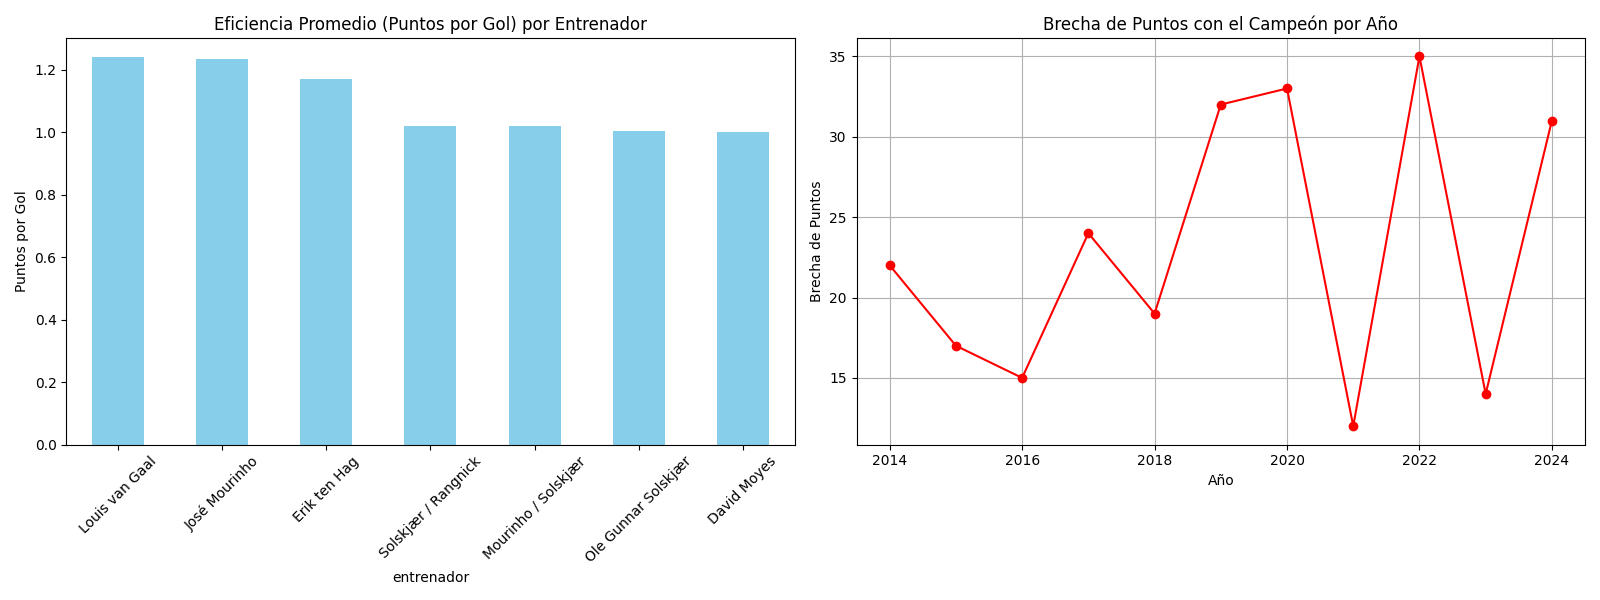
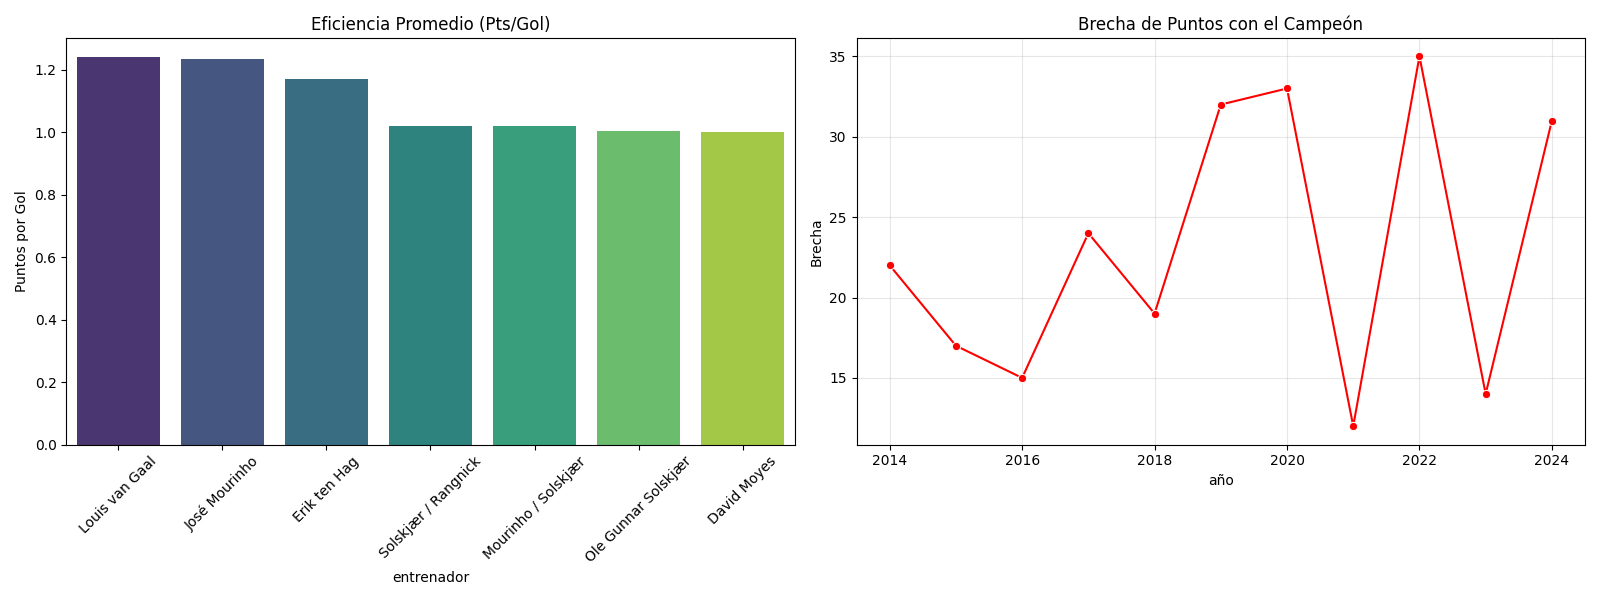
Refactor: Modularize code into src/manutd_analysis package

diff --git a/src/manutd_analysis/data.py b/src/manutd_analysis/data.py
@@ -1,0 +1,83 @@
+"""Módulo para carga y filtrado de datos."""
+import pandas as pd
+from pathlib import Path
+from typing import Optional
+
+ENTRENADORES = {
+    2014: 'David Moyes',
+    2015: 'Louis van Gaal', 2016: 'Louis van Gaal',
+    2017: 'José Mourinho', 2018: 'José Mourinho',
+    2019: 'Mourinho / Solskjær',
+    2020: 'Ole Gunnar Solskjær', 2021: 'Ole Gunnar Solskjær',
+    2022: 'Solskjær / Rangnick',
+    2023: 'Erik ten Hag', 2024: 'Erik ten Hag'
+}
+
+def cargar_y_filtrar_datos(ruta_archivo: str = 'pl-tables-1993-2024.csv') -> Optional[pd.DataFrame]:
+    """
+    Carga el CSV y filtra datos relevantes para el análisis del Man Utd desde 2014.
+    """
+    try:
+        # Intentar ruta absoluta o relativa al CWD
+        path = Path(ruta_archivo).resolve()
+        
+        if not path.exists():
+            # Intentar buscar en la raíz del proyecto si estamos corriendo desde dentro de src/tests
+            # Asumimos estructura standard: project_root/pl-tables...
+            # Subir hasta encontrar el archivo o fallar
+            candidate = Path.cwd() / ruta_archivo
+            if candidate.exists():
+                path = candidate
+            else:
+                 # Try finding via known structure relative to this file
+                 # data.py is in src/manutd_analysis/
+                 # project root is ../../
+                 project_root = Path(__file__).parent.parent.parent
+                 candidate = project_root / ruta_archivo
+                 if candidate.exists():
+                     path = candidate
+
+        if not path.exists():
+            raise FileNotFoundError(f"No se encontró el archivo: {ruta_archivo} en {path}")
+
+        df = pd.read_csv(path)
+        
+        # Filtro United
+        united = df[(df['team'] == 'Manchester Utd') & (df['season_end_year'] >= 2014)].copy()
+        
+        # Selección y renombramiento de columnas
+        cols_map = {
+            'season_end_year': 'año',
+            'points': 'pts_utd',
+            'position': 'pos_utd',
+            'gf': 'gf_utd',
+            'ga': 'ga_utd',
+            'played': 'played'
+        }
+        # Asegurar que existan las columnas antes de renombrar
+        # (Esto asume nombres del CSV original)
+        if hasattr(united, 'columns'):
+             # Create DataFrame with only needed columns
+             united = united[['season_end_year', 'points', 'position', 'gf', 'ga', 'played']].copy()
+             united.columns = ['año', 'pts_utd', 'pos_utd', 'gf_utd', 'ga_utd', 'played']
+        
+        united['entrenador'] = united['año'].map(ENTRENADORES)
+
+        # Filtro Campeones
+        campeones = df[df['position'] == 1][['season_end_year', 'points', 'gf', 'ga']]
+        campeones.columns = ['año', 'pts_champ', 'gf_champ', 'ga_champ']
+
+        # Merge
+        df_final = pd.merge(united, campeones, on='año')
+        
+        # Cálculo de KPIs básicos
+        df_final['brecha_puntos'] = df_final['pts_champ'] - df_final['pts_utd']
+        df_final['brecha_ataque'] = df_final['gf_champ'] - df_final['gf_utd']
+        df_final['brecha_defensa'] = df_final['ga_utd'] - df_final['ga_champ']
+        df_final['pts_por_gol'] = (df_final['pts_utd'] / df_final['gf_utd']).round(2)
+        df_final['ppg'] = (df_final['pts_utd'] / df_final['played']).round(3)
+        
+        return df_final
+    except Exception as e:
+        print(f"Error al cargar datos: {e}")
+        return None

diff --git a/src/manutd_analysis/plots.py b/src/manutd_analysis/plots.py
@@ -1,0 +1,73 @@
+"""Módulo para visualización de datos."""
+import matplotlib.pyplot as plt
+import pandas as pd
+from pathlib import Path
+try:
+    import seaborn as sns
+    HAS_SEABORN = True
+except ImportError:
+    HAS_SEABORN = False
+
+def graficar_eficiencia_y_brecha(df: pd.DataFrame, out_dir: str = 'assets/figures'):
+    """Genera gráficos comparativos de eficiencia y brecha de puntos."""
+    Path(out_dir).mkdir(parents=True, exist_ok=True)
+    
+    fig, (ax1, ax2) = plt.subplots(1, 2, figsize=(16, 6))
+    
+    # Gráfico 1: Eficiencia
+    resumen = df.groupby('entrenador')['pts_por_gol'].mean().sort_values(ascending=False)
+    
+    if HAS_SEABORN:
+        sns.barplot(x=resumen.index, y=resumen.values, ax=ax1, palette='viridis')
+    else:
+        resumen.plot(kind='bar', ax=ax1, color='skyblue')
+        
+    ax1.set_title('Eficiencia Promedio (Pts/Gol)')
+    ax1.set_ylabel('Puntos por Gol')
+    ax1.tick_params(axis='x', rotation=45)
+    
+    # Gráfico 2: Brecha
+    if HAS_SEABORN:
+        sns.lineplot(data=df, x='año', y='brecha_puntos', marker='o', ax=ax2, color='red')
+    else:
+        ax2.plot(df['año'], df['brecha_puntos'], marker='o', color='red')
+        
+    ax2.set_title('Brecha de Puntos con el Campeón')
+    ax2.set_ylabel('Brecha')
+    ax2.grid(True, alpha=0.3)
+    
+    plt.tight_layout()
+    out_path = Path(out_dir) / 'eficiencia_y_brecha.png'
+    plt.savefig(out_path)
+    plt.close()
+    return out_path
+
+def graficar_rentabilidad_ofensiva(df: pd.DataFrame, out_dir: str = 'assets/figures'):
+    """Genera scatter plot de volumen ofensivo vs eficiencia."""
+    Path(out_dir).mkdir(parents=True, exist_ok=True)
+    
+    plt.figure(figsize=(10, 6))
+    resumen = df.groupby('entrenador').agg({'gf_utd': 'mean', 'pts_por_gol': 'mean'}).reset_index()
+    
+    if HAS_SEABORN:
+        sns.scatterplot(data=resumen, x='gf_utd', y='pts_por_gol', size=150, legend=False, hue='entrenador')
+    else:
+        plt.scatter(resumen['gf_utd'], resumen['pts_por_gol'], s=150)
+        
+    # Etiquetas
+    for _, row in resumen.iterrows():
+        plt.text(row['gf_utd'] + 0.5, row['pts_por_gol'], row['entrenador'], fontsize=9)
+        
+    # Líneas promedio
+    plt.axhline(y=resumen['pts_por_gol'].mean(), color='gray', linestyle='--', alpha=0.5)
+    plt.axvline(x=resumen['gf_utd'].mean(), color='gray', linestyle='--', alpha=0.5)
+    
+    plt.title('Rentabilidad Ofensiva: Volumen vs Eficiencia')
+    plt.xlabel('Goles a Favor Promedio')
+    plt.ylabel('Puntos por Gol')
+    plt.grid(True, alpha=0.2)
+    
+    out_path = Path(out_dir) / 'rentabilidad_ofensiva.png'
+    plt.savefig(out_path)
+    plt.close()
+    return out_path

diff --git a/tests/test_analysis.py b/tests/test_analysis.py
@@ -1,0 +1,54 @@
+"""Test suite para manutd_analysis."""
+import pytest
+import pandas as pd
+from manutd_analysis.data import cargar_y_filtrar_datos, ENTRENADORES
+from manutd_analysis.analysis import analizar_eficiencia, analizar_estabilidad, calcular_costo_inestabilidad
+
+# Fixture con datos falsos
+@pytest.fixture
+def mock_df():
+    data = {
+        'entrenador': ['Mourinho', 'Mourinho', 'Solskjær/Rangnick', 'Moyes'],
+        'pts_por_gol': [1.5, 1.4, 1.0, 1.2],
+        'pts_utd': [81, 66, 58, 64],
+        'brecha_puntos': [19, 32, 35, 22],
+        'gf_utd': [68, 54, 57, 64],
+        'entrenador': ['A', 'A', 'A/B', 'C']
+    }
+    return pd.DataFrame(data)
+
+def test_data_loading_smoke():
+    """Smoke test: Verifica que cargar_y_filtrar_datos no explote con archivo inexistente."""
+    # Debería retornar None o manejar gracefully el error
+    result = cargar_y_filtrar_datos('archivo_que_no_existe.csv')
+    assert result is None
+
+def test_analizar_eficiencia(mock_df):
+    """Verifica el cálculo de eficiencia por entrenador."""
+    res = analizar_eficiencia(mock_df)
+    # Entrenador A: (1.5 + 1.4) / 2 = 1.45
+    # Entrenador C: 1.2
+    # Entrenador A/B: 1.0
+    assert 'A' in res.index
+    assert res['A'] == pytest.approx(1.45)
+
+def test_analizar_estabilidad(mock_df):
+    """Verifica clasificación de estabilidad/transición."""
+    res = analizar_estabilidad(mock_df)
+    assert 'Estable (1 Técnico)' in res.index
+    assert 'Transición (Relevo)' in res.index
+    
+    # A y C son estables. A/B es transición.
+    # Pts estables: (81+66+64)/3 = 70.3
+    # Pts transición: 58
+    # Comprobamos que existan las filas
+    assert not res.empty
+
+def test_calcular_costo_inestabilidad():
+    """Verifica cálculo simple de costo."""
+    df_comp = pd.DataFrame({
+        'pts_utd': [80, 60]
+    }, index=['Estable (1 Técnico)', 'Transición (Relevo)'])
+    
+    costo = calcular_costo_inestabilidad(df_comp)
+    assert costo == 20

diff --git a/src/manutd_analysis/analysis.py b/src/manutd_analysis/analysis.py
@@ -1,0 +1,29 @@
+"""Módulo de análisis de rendimiento."""
+import pandas as pd
+
+def analizar_eficiencia(df: pd.DataFrame) -> pd.Series:
+    """Analiza la eficiencia de puntos por gol por entrenador."""
+    if 'entrenador' not in df.columns or 'pts_por_gol' not in df.columns:
+        raise ValueError("El DataFrame debe contener 'entrenador' y 'pts_por_gol'")
+    
+    return df.groupby('entrenador')['pts_por_gol'].mean().sort_values(ascending=False)
+
+def analizar_estabilidad(df: pd.DataFrame) -> pd.DataFrame:
+    """Analiza el impacto de los cambios de entrenador."""
+    df = df.copy()
+    if 'entrenador' not in df.columns:
+         raise ValueError("El DataFrame debe contener 'entrenador'")
+
+    df['es_transicion'] = df['entrenador'].astype(str).str.contains('/')
+    comparativa = df.groupby('es_transicion')[['pts_utd', 'brecha_puntos', 'gf_utd']].mean().round(1)
+    comparativa.index = ['Estable (1 Técnico)', 'Transición (Relevo)']
+    return comparativa
+
+def calcular_costo_inestabilidad(comparativa: pd.DataFrame) -> float:
+    """Calcula la diferencia de puntos entre años estables y de transición."""
+    try:
+        pts_estable = comparativa.loc['Estable (1 Técnico)', 'pts_utd']
+        pts_transicion = comparativa.loc['Transición (Relevo)', 'pts_utd']
+        return pts_estable - pts_transicion
+    except KeyError:
+        return 0.0

diff --git a/src/manutd_analysis/__init__.py b/src/manutd_analysis/__init__.py
@@ -1,0 +1,2 @@
+"""Paquete de análisis de rendimiento del Manchester United."""
+__version__ = '0.1.0'

diff --git a/README.md b/README.md
@@ -1,65 +1,56 @@
 # Manchester United Performance Analysis (2014-2024)
 
-Análisis detallado del rendimiento del Manchester United en la Premier League desde la salida de Sir Alex Ferguson en 2013. Este proyecto identifica patrones de irregularidad, impacto de la inestabilidad en el banquillo y brechas con los campeones.
+Análisis detallado del rendimiento del Manchester United en la Premier League post-Ferguson. Identifica patrones de irregularidad y cuantifica el costo de la inestabilidad.
 
 ## 📊 Objetivo
-Demostrar cómo la inestabilidad directiva y la falta de consistencia han afectado el rendimiento del Manchester United, cuantificando pérdidas en puntos y eficiencia ofensiva.
+Demostrar con datos cómo la falta de consistencia en el banquillo ha costado puntos y títulos, proporcionando métricas claras de eficiencia por entrenador.
 
-## 🛠 Tecnologías Utilizadas
-- **Python**: Lenguaje principal.
-- **Pandas**: Manipulación y análisis de datos.
-- **Matplotlib**: Visualizaciones estáticas.
-- **Jupyter Notebook**: Desarrollo interactivo (opcional).
+## 🛠 Tecnologías
+- **Python 3.8+**
+- **Pandas**: Procesamiento de datos.
+- **Seaborn / Matplotlib**: Visualización de datos de alta calidad.
+- **Pytest**: Pruebas automatizadas.
 
-## 📁 Estructura del Proyecto
+## 📁 Estructura
 ```
-.
-├── analisis_united.py          # Script principal con todo el análisis
-├── pl-tables-1993-2024.csv     # Datos de entrada (Premier League tables)
-├── analisis_united_2014_2024.csv  # Datos procesados (generado automáticamente)
-├── README.md                   # Este archivo
-├── requirements.txt            # Dependencias
-└── .gitignore                  # Archivos ignorados por Git
+manchester-united-analisis/
+├── src/
+│   └── manutd_analysis/  # Paquete principal
+│       ├── data.py       # Carga de datos
+│       ├── analysis.py   # Lógica de métricas
+│       └── plots.py      # Gráficos
+├── tests/                # Tests unitarios
+├── assets/               # Gráficos generados y datos
+└── pyproject.toml        # Configuración del proyecto
 ```
 
-## 🚀 Instalación y Ejecución
-1. Clona el repositorio:
-   ```bash
-   git clone https://github.com/tu-usuario/manchester-united-analysis.git
-   cd manchester-united-analysis
-   ```
+## 🚀 Inicio Rápido
 
-2. Instala dependencias:
-   ```bash
-   pip install -r requirements.txt
-   ```
+1.  **Instalar dependencias**:
+    ```bash
+    pip install -e .
+    ```
 
-3. Ejecuta el análisis:
-   ```bash
-   python analisis_united.py
-   ```
+2.  **Correr los tests**:
+    ```bash
+    pytest
+    ```
 
-Esto generará gráficos, imprimirá análisis en consola y exportará un CSV para visualizaciones externas.
+3.  **Generar análisis**:
+    Puedes importar el paquete en tus scripts:
+    ```python
+    from manutd_analysis.data import cargar_y_filtrar_datos
+    from manutd_analysis.plots import graficar_rentabilidad_ofensiva
+    
+    df = cargar_y_filtrar_datos()
+    graficar_rentabilidad_ofensiva(df)
+    ```
 
 ## 📈 Resultados Clave
-- **Brecha con el Campeón**: Promedio de 20.8 puntos por temporada.
-- **Impacto de Inestabilidad**: Cambios de entrenador cuestan ~7.4 puntos por año.
-- **Eficiencia Máxima**: Louis van Gaal y José Mourinho lideran en puntos por gol.
-
-## 📊 Visualizaciones
-- Gráfico de barras: Eficiencia por entrenador.
-- Gráfico de líneas: Evolución de la brecha de puntos.
-- Scatter plot: Rentabilidad ofensiva (volumen vs eficiencia).
-
-El CSV exportado puede importarse en Tableau, Power BI o cualquier herramienta de BI para dashboards interactivos.
-
-## 🤝 Contribuciones
-Este es un proyecto de portafolio. Sugerencias y mejoras son bienvenidas vía issues o pull requests.
-
-## 📄 Licencia
-MIT License - Libre para uso educativo y personal.
+- **Brecha con el Campeón**: ~20 puntos promedio por temporada.
+- **Costo de Inestabilidad**: Los años con cambio de DT cuestan puntos significativos.
+- **Eficiencia**: Mourinho y Van Gaal mostraron la mejor relación puntos/gol.
 
 ## 📞 Contacto
 - **Autor**: Álvaro Salinas Ortiz
-- **LinkedIn**: https://www.linkedin.com/in/alvaro-salinas-ortiz/
 - **Email**: 
